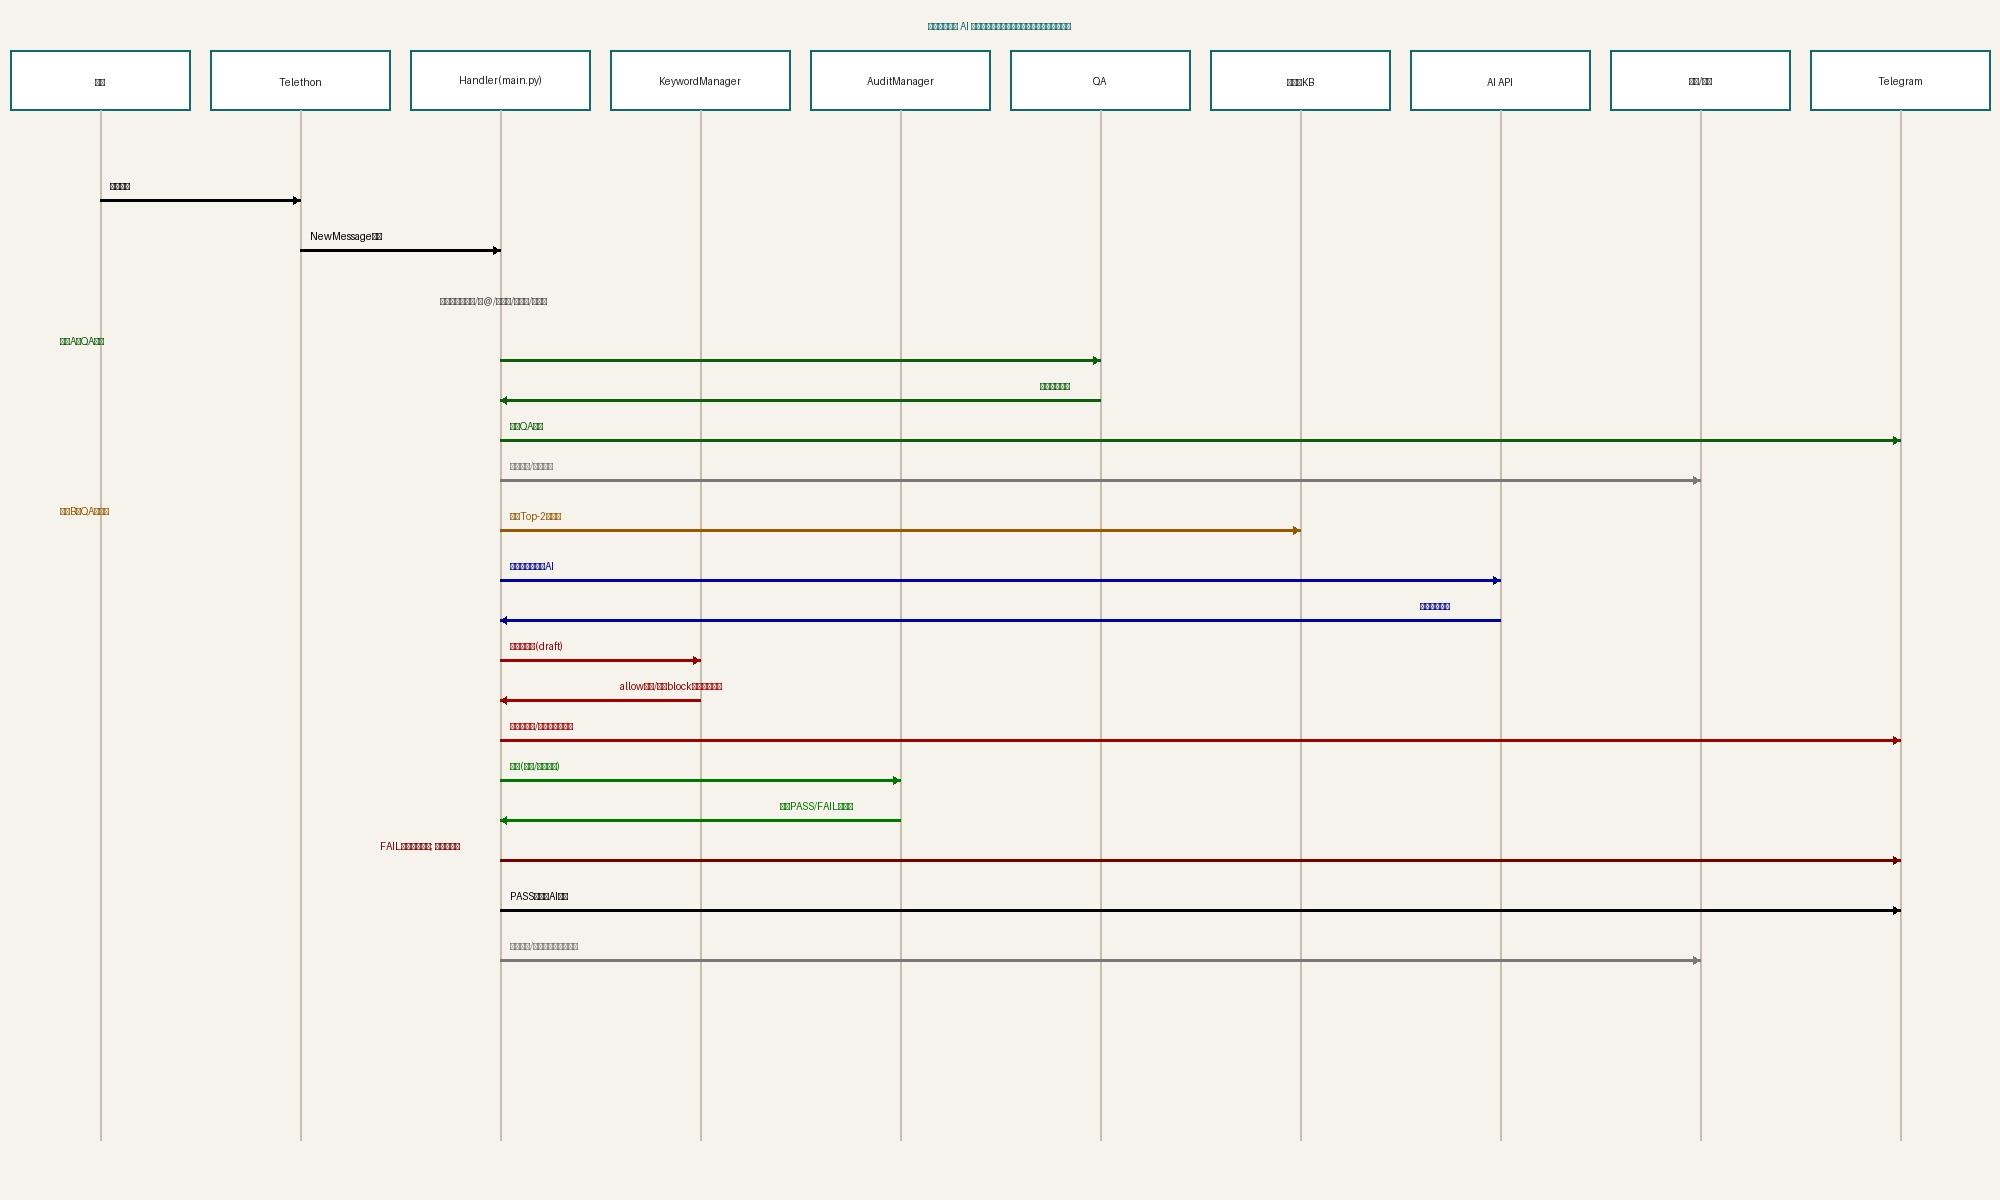
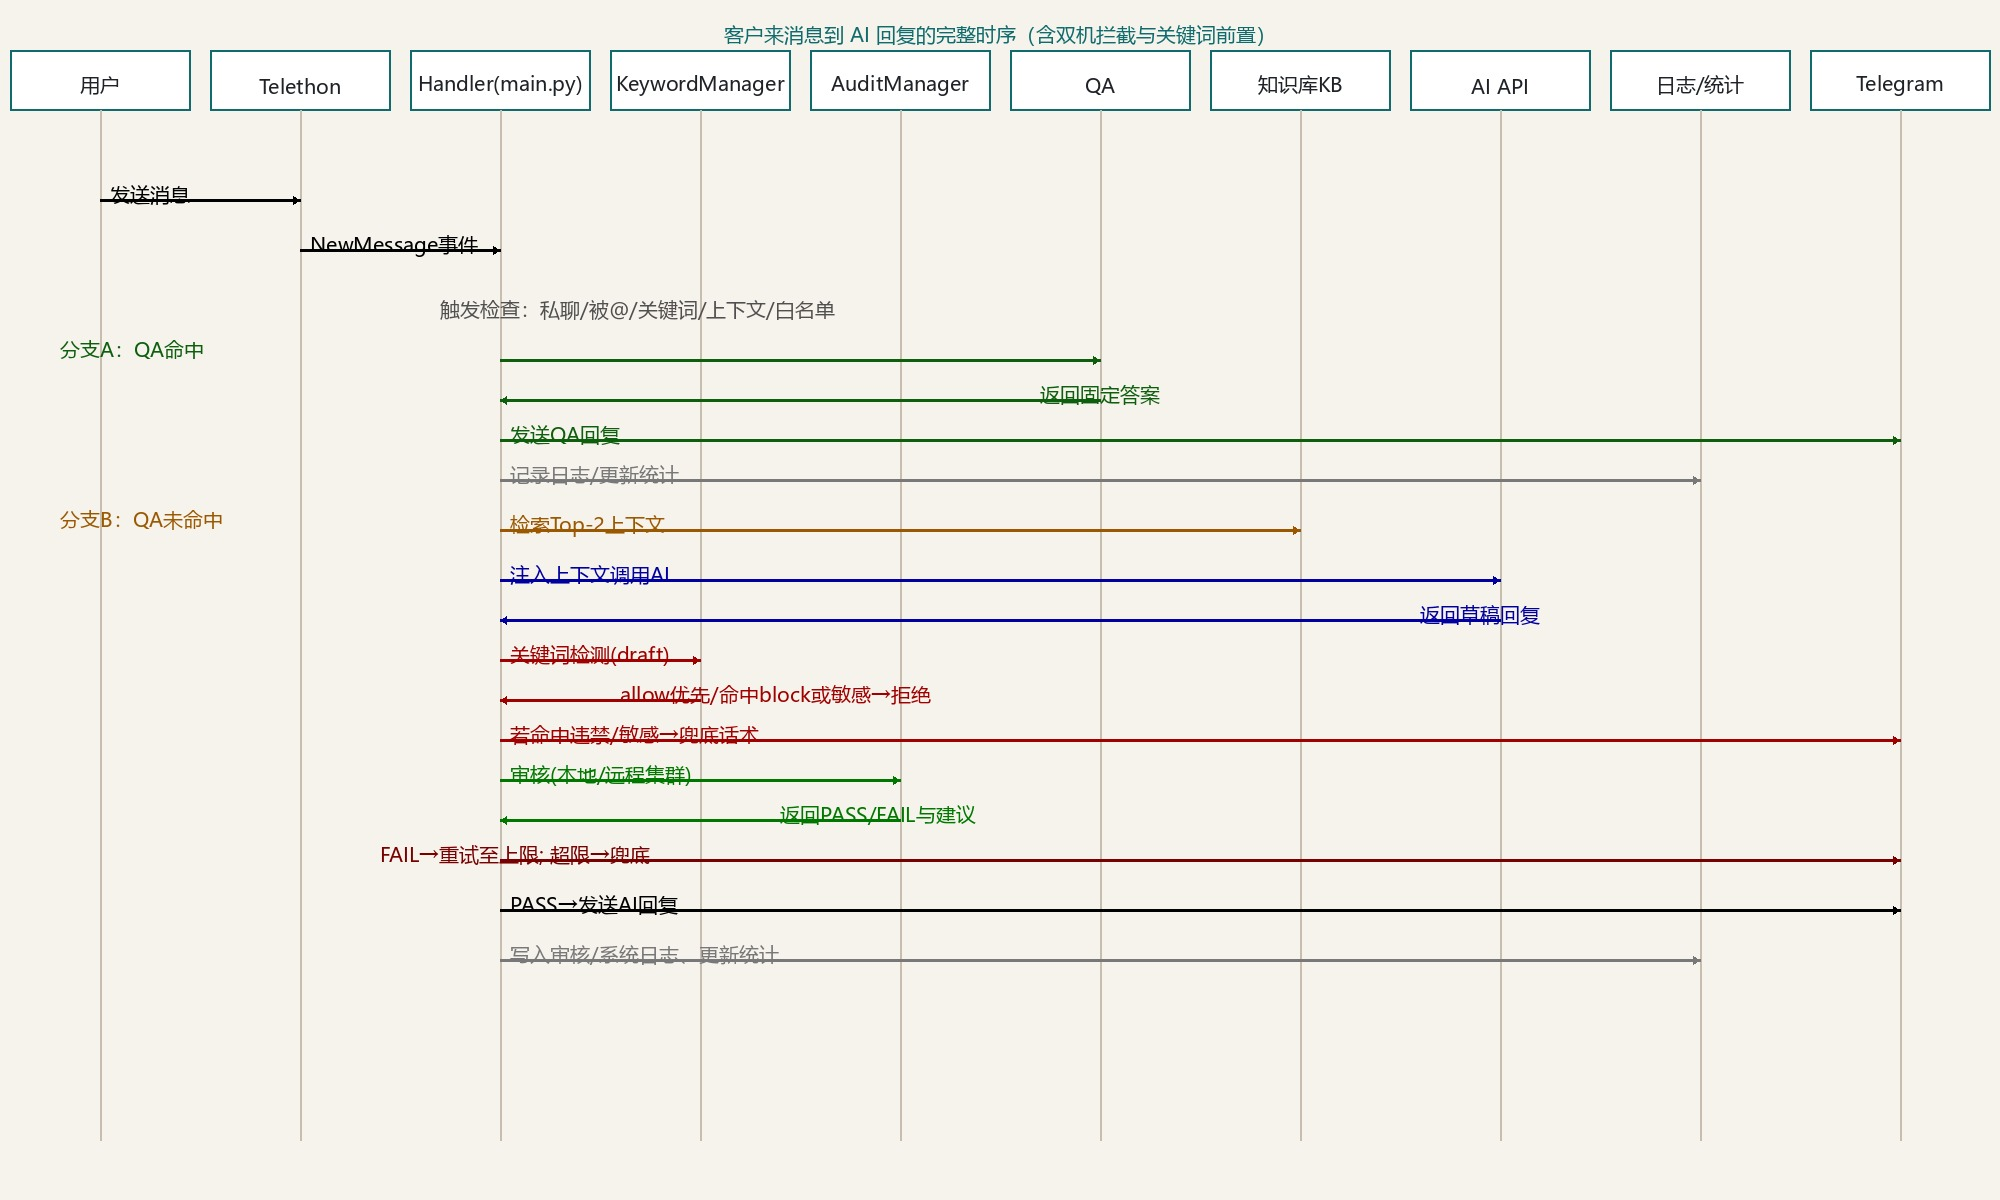
fix: resolve garbled text in sequence diagram images by using system Chinese font

diff --git a/tools/generate_message_flow.py b/tools/generate_message_flow.py
@@ -16,7 +16,15 @@ def main(output_path):
     W, H = 2000, 1200
     img = Image.new('RGB', (W, H), (246, 243, 236))
     draw = ImageDraw.Draw(img)
-    font = ImageFont.load_default()
+    # 优先尝试加载中文字体
+    try:
+        font = ImageFont.truetype("C:/Windows/Fonts/msyh.ttc", 20)
+    except OSError:
+        try:
+            font = ImageFont.truetype("C:/Windows/Fonts/simhei.ttf", 20)
+        except OSError:
+            print("Warning: Chinese font not found, using default.")
+            font = ImageFont.load_default()
 
     participants = [
         ("用户", 100),
